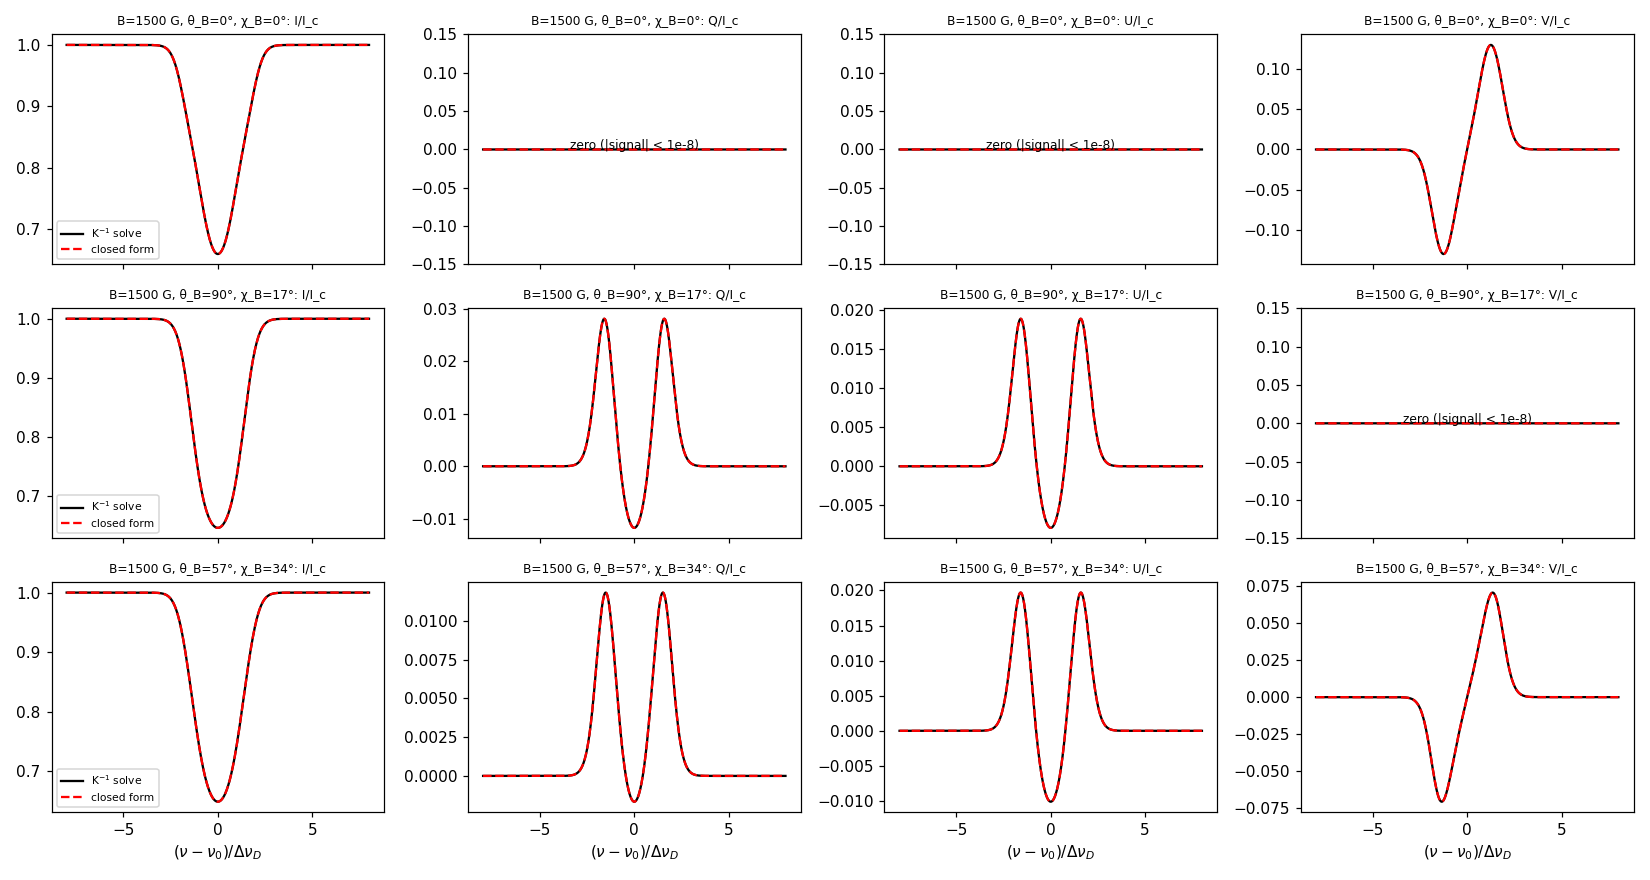
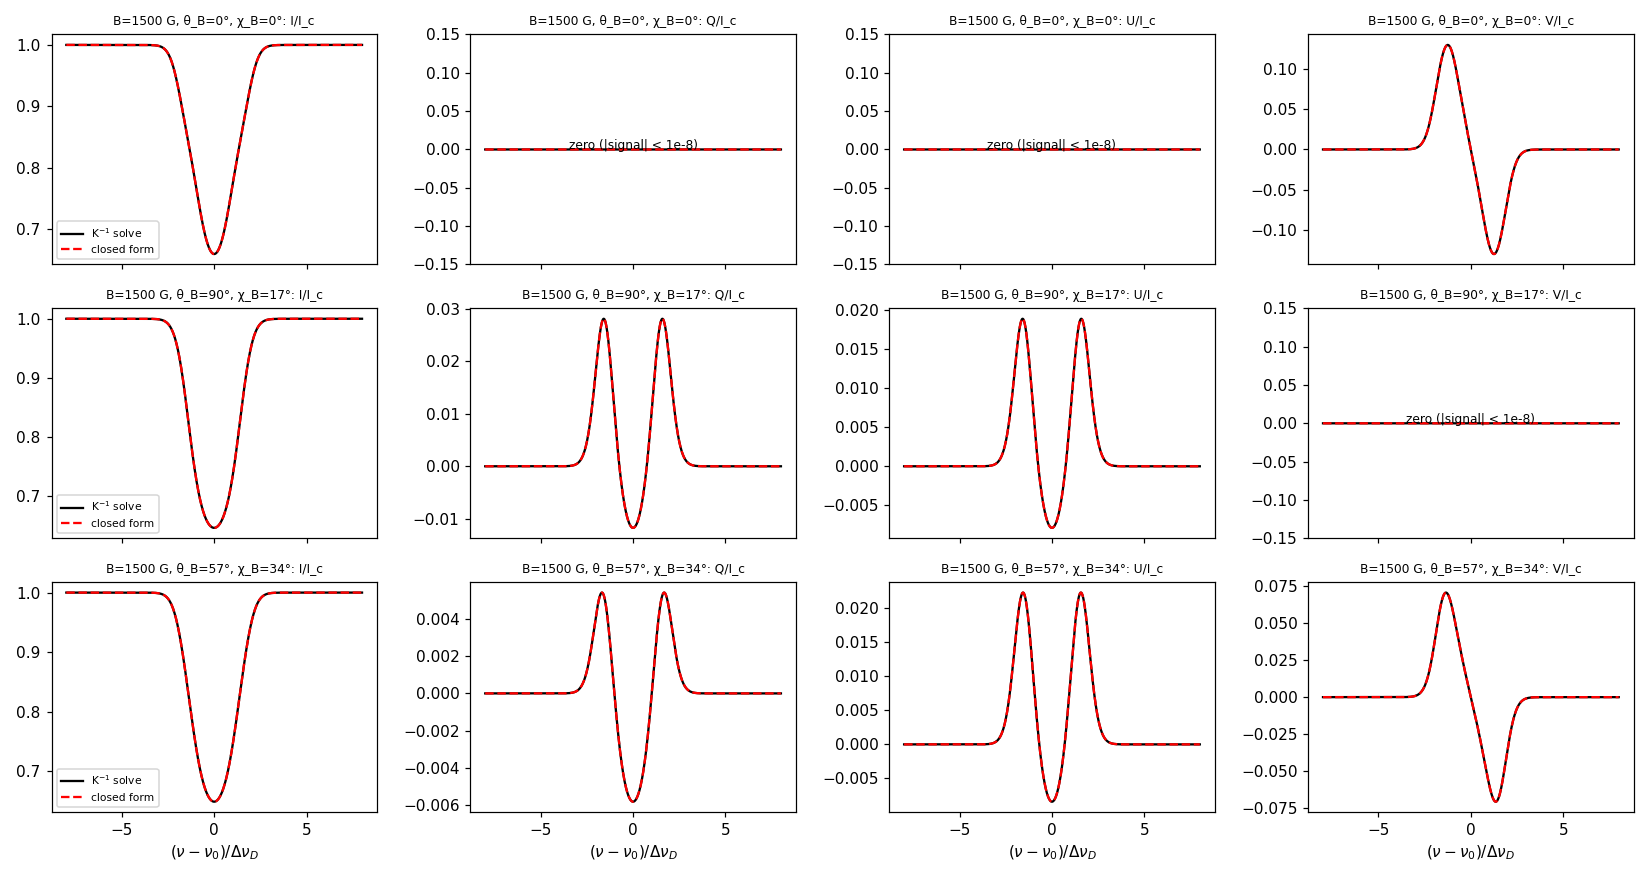
Correct normalization for T_0^1 that matches LL04's

diff --git a/Polarization-in-spectral-lines/SolveRTE/validate_special_cases.py b/Polarization-in-spectral-lines/SolveRTE/validate_special_cases.py
@@ -29,7 +29,7 @@ NU0 = 4.3e14
 LINE = LineModel(NU0, A_ul, S.GJU, S.GJU, 1, 0, 40)
 VMIC = default_Delta_nu_D * C_LIGHT / NU0  # with T ~ 0 this gives Delta nu_D = 4e9 exactly
 X = S.XGRID
-NU = X * default_Delta_nu_D
+NU = -X * default_Delta_nu_D  # nu - nu0, since Special_cases x = (nu0 - nu)/dnu_D
 SCALE = phi00_norm() * default_Delta_nu_D / eta0(LINE, 1.0) * np.sqrt(np.pi)
 
 jrad = radiation_tensor(hR=S.HP)
@@ -39,7 +39,7 @@ for q in range(-2, 3):
     JKQ[2, q + 2] = jrad[(2, q)]
 
 a_voigt = damping_parameter()
-cache, worst = {}, 0.0
+cache, worst, worst_v = {}, 0.0, 0.0
 for obs_label, th_obs in S.observer_theta_cases().items():
     cases = S.make_case_list(th_obs)
     fig, axes = plt.subplots(len(cases), 4, figsize=(15, 10), sharex=True)
@@ -54,8 +54,9 @@ for obs_label, th_obs in S.observer_theta_cases().items():
         worst = max(worst, err_iqu)
         vmax = np.abs(ref[3]).max()
         if vmax > 1e-12:
-            errv = np.abs(mine[3] - np.sqrt(2) * ref[3]).max() / np.abs(mine[3]).max()
-            print(f"    V: |V_mine - sqrt(2) V_ref| / max|V_mine| = {errv:.1e}")
+            errv = np.abs(mine[3] - ref[3]).max() / vmax
+            worst_v = max(worst_v, errv)
+            print(f"    V: max|V_mine - V_ref| / max|V_ref| = {errv:.1e}")
         print(f"{obs_label:15s} {cfg['case']:28s} Hu={hu:.3f}  max|dI,Q,U|/max I = {err_iqu:.1e}"
               f"   max|V_ref|={np.abs(ref[3]).max():.1e}  max|V_mine|={np.abs(mine[3]).max():.1e}")
         for c, nm in enumerate("IQUV"):
@@ -70,4 +71,4 @@ for obs_label, th_obs in S.observer_theta_cases().items():
     fig.savefig(f"validate_special_cases_{obs_label}.png", dpi=100)
     plt.close(fig)
 
-print(f"\nworst relative I,Q,U difference: {worst:.1e}")
+print(f"\nworst relative I,Q,U difference: {worst:.1e};  V (where nonzero): {worst_v:.1e}")

diff --git a/Polarization-in-spectral-lines/SolveRTE/validate_propagation.py b/Polarization-in-spectral-lines/SolveRTE/validate_propagation.py
@@ -20,8 +20,8 @@ NU0, DND = 4.3e14, 4e9
 LINE = LineModel(NU0, 5e7, 1.0, 1.0, 1, 0, 40)
 VMIC = DND * C_LIGHT / NU0
 A_DAMP = LINE.A_ul / (4 * np.pi * DND)
-X = np.linspace(-8, 8, 1601)
-NU = X * DND
+X = np.linspace(-8, 8, 1601)  # x = (nu0 - nu)/dnu_D (LL04 convention, as in Phi_generalized)
+NU = -X * DND  # physical offset nu - nu0
 MU, PHI = np.array([1.0]), np.array([0.0])
 AMP = eta0(LINE, 1.0) / DND
 ZERO_J = np.zeros((3, 5), complex)
@@ -41,10 +41,10 @@ def run(B, th, chi, J=ZERO_J, C_ul=0.0, T=1e-12, gamma=0.0):
 
 
 def triplet(B, th, chi):
-    """LL04 normal-Zeeman-triplet eta, rho (units eta0/dnu_D); b/r assigned as M=+1/-1 shifts."""
+    """LL04 normal-Zeeman-triplet eta, rho (units eta0/dnu_D); b/r assigned as M=-1/+1 shifts."""
     vH = NU_LARMOR * B / DND
     w = lambda M: wofz(X - M * vH + 1j * A_DAMP) / np.sqrt(np.pi)
-    wp, wb, wr = w(0), w(1), w(-1)  # blue component = M=+1 shift (sign fixed by weak-field V)
+    wp, wb, wr = w(0), w(-1), w(1)
     s, c = np.sin(th), np.cos(th)
     d_lin = lambda f: f(wp) - 0.5 * (f(wb) + f(wr))
     out = []
@@ -63,7 +63,7 @@ _, eta = run(0.0, 0.3, 0.2)
 phi0 = wofz(X + 1j * A_DAMP).real / np.sqrt(np.pi)
 check("B=0: eta_I - Voigt", np.abs(eta[0] - phi0).max() / phi0.max(), 1e-12)
 check("B=0: polarisation absent", np.abs(eta[1:]).max(), 1e-12)
-check("B=0: int eta_I dnu / eta0", abs(np.trapezoid(eta[0], NU) / DND - 1) , 2e-3)
+check("B=0: int eta_I dnu / eta0", abs(abs(np.trapezoid(eta[0], NU)) / DND - 1) , 2e-3)
 
 # 2. Zeeman triplet, all seven components, many geometries
 worst = 0.0

diff --git a/Polarization-in-spectral-lines/SolveRTE/grid_opacity.py b/Polarization-in-spectral-lines/SolveRTE/grid_opacity.py
@@ -177,7 +177,8 @@ def point_emission_and_propagation(
     eta = np.zeros((7, nnu, nmu, nphi))
 
     for im, m in enumerate(mu):
-        x = (nu - line.nu0 * v_los * m / C_LIGHT) / dnu_D
+        # nu is the offset nu - nu0; Phi uses LL04's reduced frequency x = (nu0 - nu_shifted)/dnu_D
+        x = (-nu + line.nu0 * v_los * m / C_LIGHT) / dnu_D
         tab = phi_table(x, vH, a)  # [3, 3, 5, nx]
         # absorption-like K=0 block: sum_K' Phi^0_{0K'}(x) T^K'_0(i); [4, nx, nphi]
         absorb = np.einsum("kx,ikp->ixp", tab[0, :, 2], basis[:, :, 2, im])

diff --git a/Polarization-in-spectral-lines/SolveRTE/grid_tensors.py b/Polarization-in-spectral-lines/SolveRTE/grid_tensors.py
@@ -49,10 +49,6 @@ def tensor_basis_angles(theta, chi, gamma=0.0):
             for Q in QS:
                 if abs(Q) <= K:
                     basis[i, K, Q + 2] = T(i, K, int(Q), theta, chi, gam)
-    # Radiation_fun uses sqrt(3)/2 for T^1_0(V); LL04 Table 5.6 gives sqrt(3/2) cos(theta)
-    basis[3, 1, 2] = np.sqrt(1.5) * np.cos(theta)
-    # sign fixed so that weak-field V = +nu_L B cos(theta) dI/dnu (LL04 Eq. 9.x, B towards observer)
-    basis[3, 1] *= -1.0
     return basis
 
 

diff --git a/Polarization-in-spectral-lines/Non_zero_delta.py b/Polarization-in-spectral-lines/Non_zero_delta.py
@@ -57,7 +57,7 @@ def T(i, K, Q, theta, chi, gamma):
     # V
     if i == 3:
         if K == 1 and Q == 0:
-            return sqrt3/2 * ct
+            return sqrt3/sqrt2 * ct  # sqrt(3/2) cos(theta), LL04 Table 5.6
         if K == 1 and Q == 1:
             return -sqrt3/2 * st * ex1
 

diff --git a/Polarization-in-spectral-lines/Ch13_various_tests.py b/Polarization-in-spectral-lines/Ch13_various_tests.py
@@ -101,7 +101,7 @@ def T(i, K, Q, theta, chi, gamma):
     if i == 3:
 
         if K == 1 and Q == 0:
-            return sqrt3/2 * ct
+            return sqrt3/sqrt2 * ct  # sqrt(3/2) cos(theta), LL04 Table 5.6
 
         if K == 1 and Q == 1:
             return -sqrt3/2 * st * ex1

diff --git a/Polarization-in-spectral-lines/Ch13_debug.py b/Polarization-in-spectral-lines/Ch13_debug.py
@@ -54,7 +54,7 @@ def T(i, K, Q, theta, chi, gamma):
 
     if i == 3:
         if K == 1 and Q == 0:
-            return sqrt3/2 * ct
+            return sqrt3/sqrt2 * ct  # sqrt(3/2) cos(theta), LL04 Table 5.6
         if K == 1 and Q == 1:
             return -sqrt3/2 * st * ex1
 

diff --git a/Polarization-in-spectral-lines/Radiation_fun.py b/Polarization-in-spectral-lines/Radiation_fun.py
@@ -57,7 +57,7 @@ def T(i, K, Q, theta, chi, gamma):
 
     if i == 3:
         if K == 1 and Q == 0:
-            return sqrt3/2 * ct
+            return sqrt3/sqrt2 * ct  # sqrt(3/2) cos(theta), LL04 Table 5.6
         if K == 1 and Q == 1:
             return -sqrt3/2 * st * ex1
 

diff --git a/Polarization-in-spectral-lines/SEE.py b/Polarization-in-spectral-lines/SEE.py
@@ -56,7 +56,7 @@ def T(i, K, Q, theta, chi, gamma):
 
     if i == 3:
         if K == 1 and Q == 0:
-            return sqrt3/2 * ct
+            return sqrt3/sqrt2 * ct  # sqrt(3/2) cos(theta), LL04 Table 5.6
         if K == 1 and Q == 1:
             return -sqrt3/2 * st * ex1
 

diff --git a/Polarization-in-spectral-lines/Ch13_functions.py b/Polarization-in-spectral-lines/Ch13_functions.py
@@ -101,7 +101,7 @@ def T(i, K, Q, theta, chi):
     if i == 3:
 
         if K == 1 and Q == 0:
-            return sqrt3/2 * ct
+            return sqrt3/sqrt2 * ct  # sqrt(3/2) cos(theta), LL04 Table 5.6
 
         if K == 1 and Q == 1:
             return -sqrt3/2 * st * ex1
